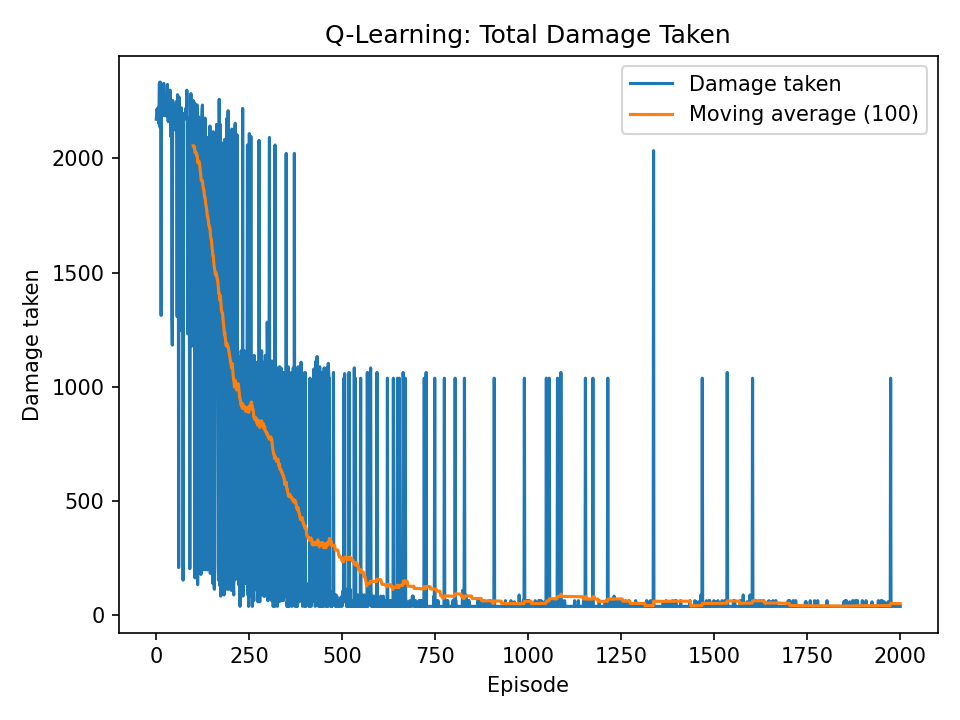
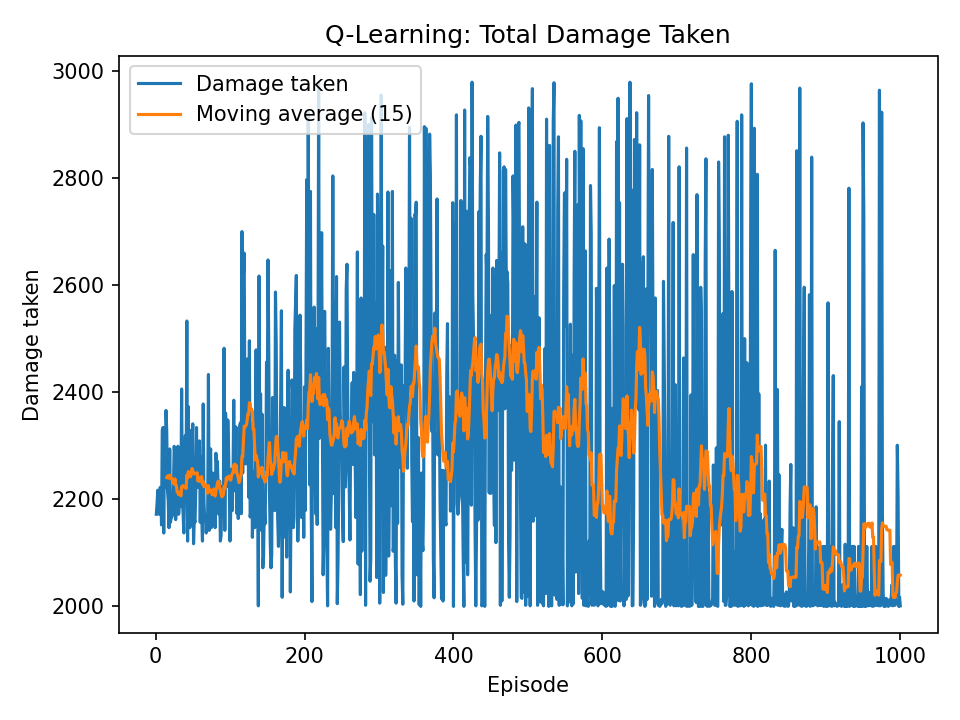
Adjusted int values in learning to visualise and compare how they affect performance and curv plotting

diff --git a/q_learning.py b/q_learning.py
@@ -17,8 +17,8 @@ def choose_action(state: int, Q: np.ndarray, epsilon:float, n_actions: int, rng:
     
 # Main Q-learning training loop
 def train_q_learning(
-    num_episodes: int = 2000,
-    max_steps_per_episode: int = 100,
+    num_episodes: int = 1000,
+    max_steps_per_episode: int = 5000,
     alpha: float = 0.1, # learning rate
     gamma: float = 0.99, # discount factor
     epsilon_start: float = 1.0, # initial exploration rate
@@ -105,12 +105,13 @@ def train_q_learning(
         episode_died.append(int(died))
 
         
-        # Logging: print progress every 100 episodes
-        if (episode + 1) % 100 == 0:
-            last_100_avg = np.mean(episode_rewards[-100:])
-            print( # diagnostic (visualise learning progress)
+        # Logging: print progress every 25 episodes
+        if (episode + 1) % 25 == 0:
+            last_25_avg = np.mean(episode_rewards[-25:])
+            print(
                 f"Episode {episode + 1:4d} | "
-                f"Avg Reward (last 100): {last_100_avg:6.2f} | "
+                f"Avg Reward (25): {last_25_avg:6.2f} | "
+                f"Avg Survival (25): {np.mean(episode_survival_ticks[-25:]):5.1f} | "
                 f"Epsilon: {epsilon:5.3f}"
             )
     logs = {
@@ -190,10 +191,10 @@ if __name__ == "__main__":
     # Train Q-learning agent
     Q, logs = train_q_learning()
 
-    plot_metric_curve(logs["reward"], "Q-Learning: Episode Reward", "Total reward", window=100, filename="reward_curve.png")
-    plot_metric_curve(logs["survival_ticks"], "Q-Learning: Survival Time", "Ticks survived", window=100, filename="survival_curve.png")
-    plot_metric_curve(logs["damage_total"], "Q-Learning: Total Damage Taken", "Damage taken", window=100, filename="damage_curve.png")
+    plot_metric_curve(logs["reward"], "Q-Learning: Episode Reward", "Total reward", window=15, filename="reward_curve.png")
+    plot_metric_curve(logs["survival_ticks"], "Q-Learning: Survival Time", "Ticks survived", window=15, filename="survival_curve.png")
+    plot_metric_curve(logs["damage_total"], "Q-Learning: Total Damage Taken", "Damage taken", window=15, filename="damage_curve.png")
 
     # Test the learned policy
     print("\nRunning greedy survival policy after training:\n")
-    run_greedy_policy(Q, max_steps=1000)
+    run_greedy_policy(Q, max_steps=5000)
